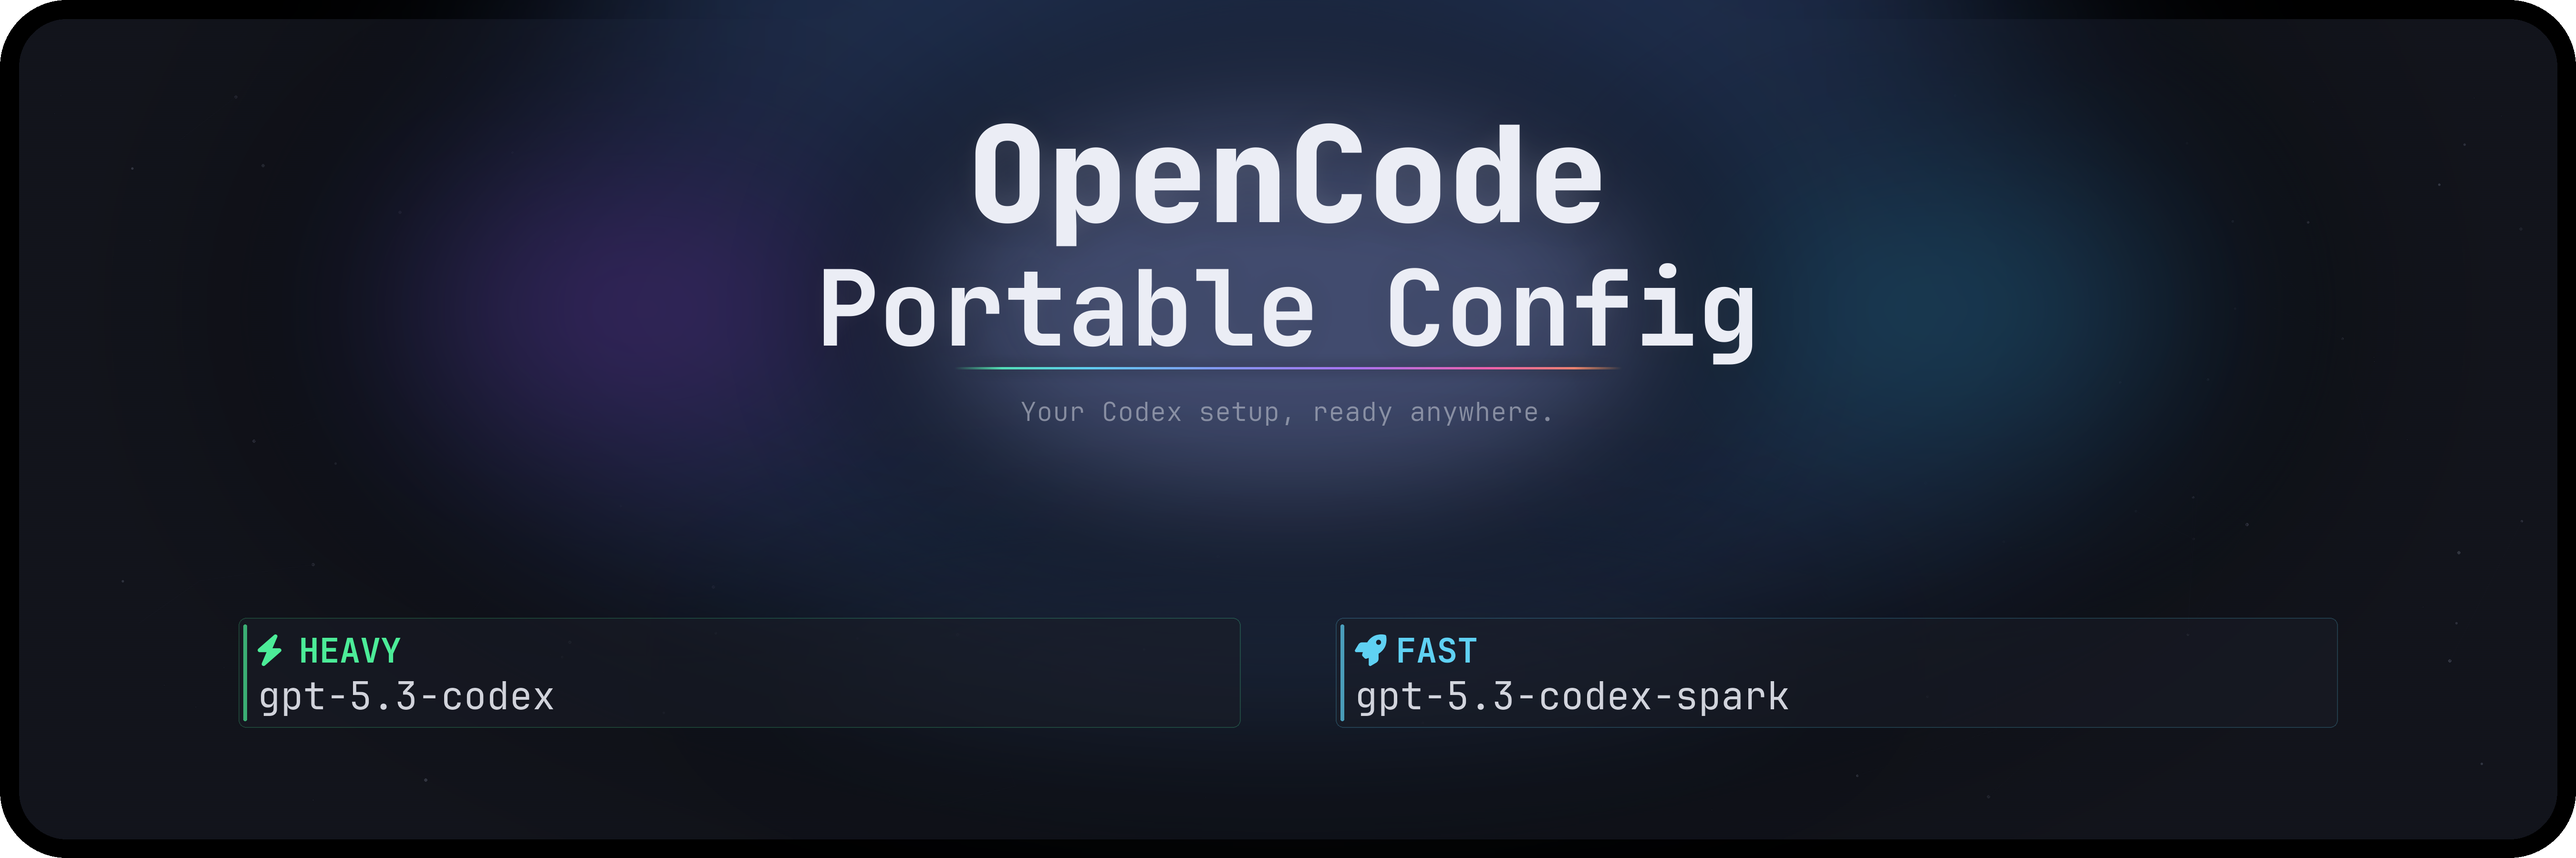
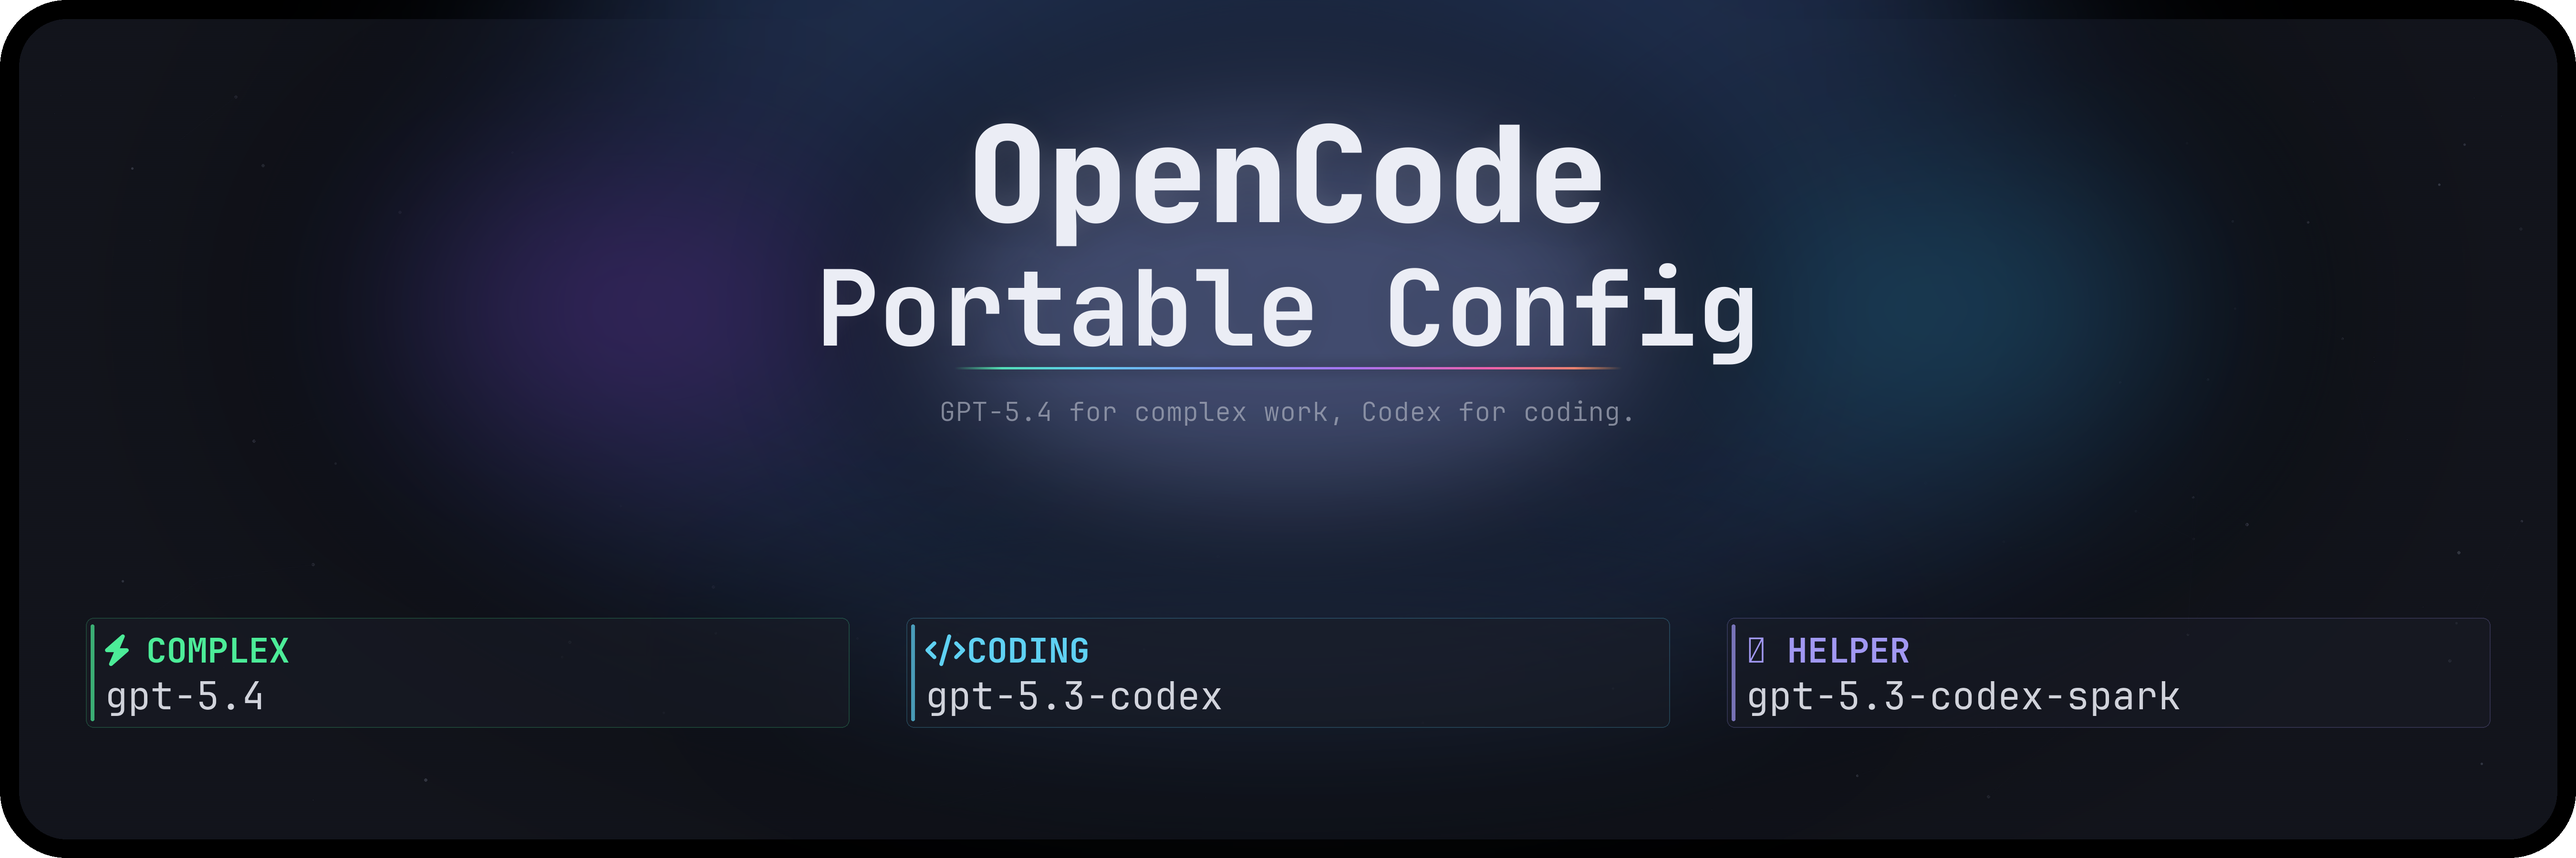
feat(cover): align hero image with GPT-5.4 routing
Update badge and tagline copy so the cover reflects GPT-5.4 for complex tasks, GPT-5.3 Codex for coding, and Spark for helper flows.

diff --git a/generate_cover.py b/generate_cover.py
@@ -213,7 +213,7 @@ def main():
 
     # === 8. Tagline ===
     tag_font = ImageFont.truetype(F_LIGHT, 56)
-    tag = "Your Codex setup, ready anywhere."
+    tag = "GPT-5.4 for complex work, Codex for coding."
     draw = ImageDraw.Draw(canvas)
     tag_x = center(draw, tag, tag_font, WIDTH)
     tag_y = line_y + 55
@@ -227,13 +227,14 @@ def main():
     badge_font_model = ImageFont.truetype(F_REG, 80)
 
     badges = [
-        ("\uf0e7 HEAVY", "gpt-5.3-codex", (80, 250, 160)),
-        ("\uf135 FAST", "gpt-5.3-codex-spark", (100, 220, 255)),
+        ("\uf0e7 COMPLEX", "gpt-5.4", (80, 250, 160)),
+        ("\uf121 CODING", "gpt-5.3-codex", (100, 220, 255)),
+        ("\uf544 HELPER", "gpt-5.3-codex-spark", (170, 160, 255)),
     ]
 
-    bw, bh = 2100, 230
-    gap = 200
-    total = len(badges) * bw + gap
+    bw, bh = 1600, 230
+    gap = 120
+    total = len(badges) * bw + gap * (len(badges) - 1)
     bsx = (WIDTH - total) // 2
     by = int(HEIGHT * 0.72)
 
